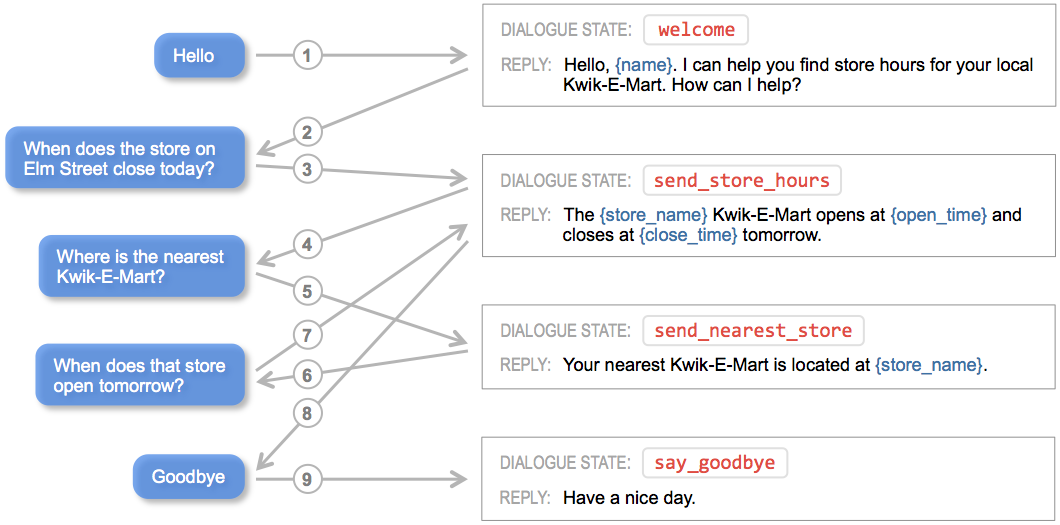
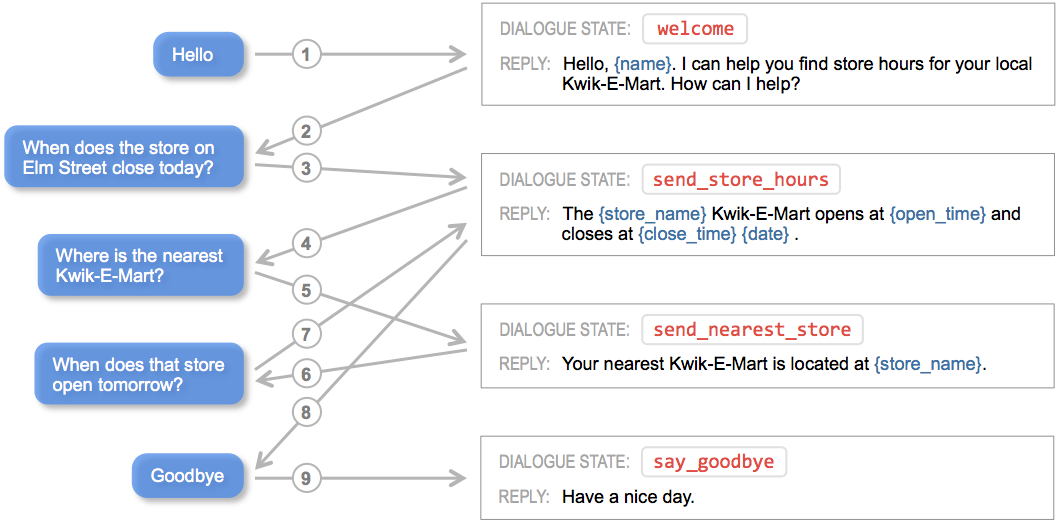
finished draft of quickstart section 1.4

diff --git a/docs/source/quickstart.rst b/docs/source/quickstart.rst
@@ -42,11 +42,12 @@ While there is no magic formula to determine which use case is ideal for a conve
 
 For this quickstart section, we will consider a simple conversational use case which can provide information about retail store locations for your neighborhood Kwik-E-Mart. For example, you could use this service to ask about store hours: 'When does the Kwik-E-Mart on Elm street close today?'. This rudimentary use case will serve as a reference example to highlight the key steps in building a useful conversational interface.
 
+.. _script-interactions:
 
 Script Your Ideal Dialogue Interactions
 ---------------------------------------
 
-Once you have identified a good use case, the next step is to script your envisioned dialogue interactions. This design exercise details the conversational interaction flows which define the user experience for your application. It is important to think through not just the most obvious user flows, but also the corner case and exception user flows which may be encountered by users during an interaction. For example, the dialogue flows should illustrate how the application responds if the user request is beyond the application scope. Also, the flows should illustrate the interactions which will enable users to get help if they are stuck or gracefully leave the interaction. The dialogue flows should detail not only the various interaction pathways a conversation may traverse, but they should also illustrate the desired language and tone envisioned for the experience.
+Once you have identified a good use case, the next step is to script your envisioned dialogue interactions. This design exercise details the conversational interaction flows which define the user experience for your application. It is important to think through not just the most obvious user flows, but also the corner case and exception user flows which may be encountered by users during an interaction. For example, the dialogue flows should illustrate how the application responds if the user request is beyond the application scope. Also, the flows should illustrate the interactions which will enable users to gracefully leave the interaction or to get help if they are stuck. The dialogue flows should detail not only the various interaction pathways a conversation may traverse, but they should also illustrate the desired language and tone envisioned for the experience.
 
 For developers familiar with graphical interface design, this step is comparable to the task of creating wireframes and pixel-perfect mockups. Like any design step, there will likely be many iterations required to work through usability issues and reach consensus on a final design. It is always wise to begin coding and implementation only after the dust has settled on the scripted dialogue interactions. Otherwise, much implementation work and effort may be wasted. 
 
@@ -60,13 +61,13 @@ For our simple use case, the following diagram illustrates the dialogue interact
 Define the Domain, Intent, Entity and Role Hierarchy
 -------------------------------------------------------
 
-Conversational applications rely on a hierarchy of machine learning classifiers in order to model and understand natural language. More broadly defined as Natural Language Processing, this family of machine learning models sits at the core all conversational assistants in widespread production use today. While there are many different ways that machine learning techniques can be enlisted to dissect and understand human language, a set of best practices has been adopted in recent years to systematize the sometimes challenging task of building accurate and useful natural language processing systems. Today, nearly all commercial conversational applications rely on a hierarchy of machine learning models illustrated below.
+Conversational applications rely on a hierarchy of machine learning classifiers in order to model and understand natural language. More broadly defined as Natural Language Processing, this family of machine learning models sits at the core all conversational assistants in widespread production use today. While there are many different ways that machine learning techniques can be enlisted to dissect and understand human language, a set of best practices has been adopted in recent years to systematize the sometimes challenging task of building accurate and useful natural language processing systems. Today, nearly all commercial conversational applications rely on the hierarchy of machine learning models illustrated below.
 
 .. image:: images/hierarchy.png
     :width: 700px
     :align: center
 
-The topmost layer in the model hierarchy is the domain classifier. The domain classifier is responsible for performing a first-pass classification to group incoming queries into set of pre-defined buckets or 'domains'. For any given domain, there may be one or more pre-defined intents. Each intent defines a specific action or answer type to invoke for a given request. The intent classifier models are responsible for deciding which intent is most likely associated with a given request. Once the request is categorized into a specific intent, the entity recognition models are employed to discern the important words and phrases in each query that must be identified in order to understand and fulfill the request. These identified words and phrases are called 'entities', and each intent may have zero or more types of entities which must be recognized. For some types of entities, a fourth and final classification step, called role classification, may be required. The role classifiers are responsible for adding differentiating labels to entities of the same type. Refer to the User Guide for a more in-depth treatment of the natural language processing classifier hierarchy utilized by MindMeld Workbench. 
+The topmost layer in the model hierarchy is the domain classifier. The domain classifier is responsible for performing a first-pass classification to assign incoming queries into set of pre-defined buckets or 'domains'. For any given domain, there may be one or more pre-defined intents. Each intent defines a specific action or answer type to invoke for a given request. The intent classifier models are responsible for deciding which intent is most likely associated with a given request. Once the request is categorized into a specific intent, the entity recognition models are employed to discern the important words and phrases in each query that must be identified in order to understand and fulfill the request. These identified words and phrases are called 'entities', and each intent may have zero or more types of entities which must be recognized. For some types of entities, a fourth and final classification step, called role classification, may be required. The role classifiers are responsible for adding differentiating labels to entities of the same type. Refer to the :ref:`User Guide <userguide>` for a more in-depth treatment of the natural language processing classifier hierarchy utilized by MindMeld Workbench. 
 
 For our simple conversational application which can help us find store information for our local Kwik-E-Mart, the natural language processing model hierarchy can be designed as illustrated below.
 
@@ -86,7 +87,7 @@ As illustrated, this rudimentary application has a single domain, 'store_info', 
 
   By convention, intent names should always be verbs which describe what the user is trying accomplish.
 
-In this basic example, only the ``get_store_hours`` intent requires entity classification. This intent supports the two defined entity types listed below.
+In this basic example, only the ``get_store_hours`` intent requires entity recognition. This intent supports the two defined entity types listed below.
 
    - ``store_name`` The name of a specific retail store location.
    - ``date`` The calendar date or day of the week.
@@ -97,9 +98,9 @@ Neither of these two entity types will require role classification in this simpl
 
   By convention, entity names should always be nouns which describe the entity type.
 
-The design of the domain, intent, entity and role hierarchy for this example application is now complete. We can now begin implementing this application using MindMeld Workbench. Every Workbench application begins with a root folder. The root folder contains all of the training data files, configuration files and custom code required in each Workbench application. For our simple example, lets first define a root directory called 'my_app'. To define the domain and intent hierarchy for your application, create a subfolder called 'domains'. Inside the 'domains' folder, create a subfolder for the name of each different domain in your application. Then, inside each domain folder, create another subfolder with the name of each individual intent in that domain. These folders are used to organize the training data for your machine learning models to understand natural language.
+The design of the domain, intent, entity and role hierarchy for this example application is now complete, and we can begin implementing this application using MindMeld Workbench. Every Workbench application begins with a root folder. The root folder contains all of the training data files, configuration files and custom code required in each Workbench application. For our simple example, lets first define a root directory called 'my_app'. To define the domain and intent hierarchy for your application, create a subfolder called 'domains'. Inside the 'domains' folder, create a subfolder for the name of each different domain in your application. Then, inside each domain folder, create another subfolder with the name of each individual intent in that domain. These folders are used to organize the training data for your machine learning models to understand natural language.
 
-Similarly, inside the root folder, create another subdirectory called 'entities'. Inside the entities folder, create a subdirectory for the name of every different entity type required in your application. These folders are used to organize the data files used by the entity recognizer, role classifier and entity resolver models. Refer to the User Guide for more details about the organization and structure of the application root directory. The User Guide also describes application 'blueprints' which provide pre-configured application directory structures for common conversational application use cases.
+Similarly, inside the root folder, create another subdirectory called 'entities'. Inside the entities folder, create a subdirectory for the name of every different entity type required in your application. These folders organize the data files used by the entity recognizer, role classifier and entity resolver models. Refer to the :ref:`User Guide <userguide>` for more details about the organization and structure of the application root directory. The :ref:`User Guide <userguide>` also describes application 'blueprints' which provide pre-configured application directory structures for common conversational application use cases.
 
 For our simple example application, the root directory structure which implements our desired natural language model hierarchy is illustrated below. 
 
@@ -107,7 +108,7 @@ For our simple example application, the root directory structure which implement
     :width: 400px
     :align: center
 
-Notice that there is no folder for the ``date`` entity. In this case, ``date`` is a 'system' entity, which is already built in to the Workbench platform. Workbench provides several different 'system' entity types for common, domain-independent entities; see the Workbench User Guide for details.  
+Notice that there is no folder for the ``date`` entity. In this case, ``date`` is a 'system' entity, which is already built in to the Workbench platform. Workbench provides several different 'system' entity types for common, domain-independent entities; see the Workbench :ref:`User Guide <userguide>` for details.  
 
 Given this defined hierarchy, we would expect our trained natural language processing models to yield the following results for the user requests in the simple interaction proposed in the preceding section.
 
@@ -121,9 +122,16 @@ The following sections of the quickstart will describe how to introduce training
 Define the Dialogue State Handlers
 -----------------------------------
 
-Today's commercial voice and chat assistants guide users through a conversational interaction in order to find information or accomplish a task. The steps in each conversational interaction are called 'dialogue states'. A dialogue state defines the form of response which is appropriate for that step in an interaction as well as other logic that must be invoked to determine the desired response. At the core of every conversational application is a set of dialogue state handlers which define the logic and response required for every supported dialogue state.
+Today's commercial voice and chat assistants guide users through a conversational interaction in order to find information or accomplish a task. The steps in each conversational interaction are called 'dialogue states'. A dialogue state defines the form of response which is appropriate for each step in an interaction as well as other logic that must be invoked to determine the desired response. Each application relies on a set of dialogue state handlers which define the logic and response required for every supported dialogue state. 
 
-For ideal conversational interactions, the flow of dialogue states can be very straightforward, as illustrated in the flow diagram below.
+At the core of every conversational application resides a dialogue manager. The dialogue manager is responsible for analyzing each incoming request and assigning it to a specific dialogue state handler to execute required logic and return a response. The task of mapping each incoming request to the appropriate dialogue state is often referred to as 'dialogue state tracking'. While applying large-scale machine learning techiniques for dialogue state tracking is an active area of research today, nearly all commercial applications rely heavily on rule-based approaches to map incoming requests to the correct dialogue state.
+
+MindMeld Workbench provides advanced and flexible capabilities for dialogue state tracking. It offers a flexible syntax for defining the rules and patterns each incoming request must match in order to be assigned to a specific dialogue state. In addition, Workbench is fully extensible and can accommodate any custom logic when MindMeld's built-in pattern matching engine will not suffice.
+
+Specify the Superset of Dialogue States
+~~~~~~~~~~~~~~~~~~~~~~~~~~~~~~~~~~~~~~~
+
+Before you can begin implementing your dialogue state handlers, it is first necessary to define the required dialogue states. For simple conversational interactions, the set of dialogue states can be very straightforward, as illustrated in the flow diagram below.
 
 .. image:: images/simple_dialogue_states.png
     :width: 700px
@@ -135,27 +143,66 @@ In practice, however, the flow of dialogue states can be quite complex. Conversa
     :width: 700px
     :align: center
 
-In this section, we will illustrate how the dialogue states and the dialogue state handlers are implemented for the scripted conversational interaction from section 1.2. First, we must define the set of dialogue states which encompass the scripted interactions. For this quickstart example, four different dialogue states will suffice: ``welcome``, ``send_store_hours``, ``send_nearest_store``, and ``say_goodbye``. The following diagram illustrates the conversation flow.
+Our goal here is to define the required dialogue states for the scripted conversational interaction in :ref:`section 1.2 <script-interactions>`. To capture the envisioned functionality, four different dialogue states will be needed: ``welcome``, ``send_store_hours``, ``send_nearest_store``, and ``say_goodbye``. The following diagram illustrates the conversation flow.
 
 .. image:: images/quickstart_dialogue_states.png
     :width: 700px
     :align: center
 
-As shown, each dialogue state prescribes the form of the system response. For most commercial applications today, the form of response consists of natural language templates to reply to the user or prompt for additional information. These templates are populated on-the-fly using contextual state information gleaned from the conversation.  Often, the response also includes additional information to render client-side interactive elements such as content carousels or quick reply buttons.
+As shown, each dialogue state prescribes the form of the system response. For most commercial applications today, the form of response consists of natural language templates to reply to the user or prompt for additional information. These templates are populated on-the-fly using contextual state information gleaned from the conversation.  Often, the response also includes additional information to render client-side interactive elements such as image carousels or quick reply buttons.
 
 .. note::
 
-  By convention, the dialogue state names should be a verb which describes the action your application should take at that point in the interaction.
+  By convention, the dialogue state names should be verbs which describe the action your application should take at each point in the interaction.
 
-In MindMeld Workbench, the dialogue states and their associated handler logic is defined by a file containing Python code located in the root directory of your application. This file defines a set of patterns, which when matched, should return a specified response. To begin, create a Python file called 'my_app.py' in the root directory of your application. If you begin your implementation using a Workbench 'blueprint' app, this file should already exist in the root directory.
 
-File my_app.py
+Create the Application Container
+~~~~~~~~~~~~~~~~~~~~~~~~~~~~~~~~
+
+In MindMeld Workbench, the application container is a Python file which contains all of the logic and functionality for your application. This Python file is located in your project's root directory, and it enumerates all of the dialogue states and their associated handlers. To begin, create a file called 'my_app.py' with the following minimal implementation in your root directory. 
 
 .. code:: python
 
   from mmworkbench import Application
-  from mmworkbench import context, slots
-  import mmworkbench.KnowledgeBase as kb
+  
+  app = Application(__name__)
+  
+  @app.handle(intent='greet')
+  def welcome():
+      response = {
+          'replies': [
+              'Hello. I can help you find store hours ' +
+              'for your local Kwik-E-Mart. How can I help?'
+          ]
+      }
+      return response
+
+Your directory structure should now resemble the following.
+
+.. image:: images/directory2.png
+    :width: 350px
+    :align: center
+
+The minimal code snippet shown above illustrates the conventions employed by Workbench to implement dialogue state tracking and dialogue state handling logic. It performs the following steps:
+
+   1. It imports the Application class from the MindMeld Workbench package.
+   2. It defines an Application instance to serve as the parent container for the application.
+   3. It uses the :keyword:`handle()` decorator to define a pattern which, when matched, will invoke the associated handler function.
+   4. It specifies the handler function :keyword:`welcome()` which defines the ``welcome`` dialogue state and returns the desired response.
+
+This application structure provides a straighforward mechanism to enumerate a variety of patterns along with their associated handlers which will comprise the core interaction logic for your application. 
+
+
+Implement the Dialogue State Handlers
+~~~~~~~~~~~~~~~~~~~~~~~~~~~~~~~~~~~~~
+
+Let us now define the dialogue handlers we would need for the interaction in :ref:`section 1.2 <script-interactions>`. In the process, we will introduce several new capabilities of Workbench which are described in depth in the :ref:`User Guide <userguide>`.
+
+To start, let's consider the handler for the ``welcome`` dialogue state.
+
+.. code:: python
+
+  from mmworkbench import Application, context, slots
   
   app = Application(__name__)
   
@@ -169,31 +216,45 @@ File my_app.py
           ]
       }
       return response
+
+As mentioned above, the name of the dialogue state is prescribed by the method name of the dialogue state handler. The :keyword:`handle()` decorator specifies the pattern which must be matched to invoke the handler method. In this case, the pattern is specified simply as :keyword:`intent='greet'`. In other words, if the natural language processer predicts that the intent of the incoming request is 'greet', the :keyword:`welcome()` handler will be invoked.
+
+Every dialogue handler returns a :keyword:`response` object. This object specifies the natural language text as well as other data to be returned in the response. Note that the text strings contained in this response can utilize templated expressions, such as :keyword:`'Hello, {name}.'`. These templates rely on standard Python string formatting syntax. Templated expressions will be populated with real values before returning to the client. The :keyword:`slots` object is used to store the named string values which are used to populate the templates.
+
+In the code snippet above, we also introduce the :keyword:`context` object. Workbench relies on the :keyword:`context` object to keep track of all of the state information associated with the current conversational interaction. In can contain output data from the natural language parsing models, aggregated state from multiple previous interactions, as well as user and session information. The detailed information in the :keyword:`context` can be very useful for implementing custom dialogue state handling logic. More details can be found in the :ref:`User Guide <userguide>`.
+
+Following this same approach, we can now also define handlers for the dialgue states ``send_store_hours``, ``send_nearest_store``, and ``say_goodbye``. The resulting my_app.py file now looks like this.
+
+.. code:: python
+
+  from mmworkbench import Application, QuestionAnswerer, context, slots
   
-  @app.handle(intent='get_store_close_time')
-  def send_close_time():
-      set_target_store(context)
-      if context.frame.target_store:
-          slots['time'] = context.frame.target_store['close_time']
-          slots['store_name'] = context.frame.target_store['name']
-          response = {
-              'replies': [
-                  'The {store_name} Kwik-E-Mart closes at {time}.'
-              ]
-          }
-      else:
-          response = {'replies': ['For which store?']}
+  qa = QuestionAnswerer('data/stores.json')
+  app = Application(__name__, qa)
+  
+  @app.handle(intent='greet')
+  def welcome():
+      slots['name'] = context.request.session.user_name
+      response = {
+          'replies': [
+              'Hello, {name}. I can help you find store hours ' +
+              'for your local Kwik-E-Mart. How can I help?'
+          ]
+      }
       return response
   
-  @app.handle(intent='get_store_open_time')
-  def send_open_time():
+  @app.handle(intent='get_store_hours')
+  def send_store_hours():
       set_target_store(context)
       if context.frame.target_store:
-          slots['time'] = context.frame.target_store['open_time']
+          slots['open_time'] = context.frame.target_store['open_time']
+          slots['close_time'] = context.frame.target_store['close_time']
           slots['store_name'] = context.frame.target_store['name']
+          dates = [e.value for e in context.entities if e.type == 'date']
+          if dates: slots['date'] = dates[0]
           response = {
               'replies': [
-                  'The {store_name} Kwik-E-Mart opens at {time}.'
+                  'The {store_name} Kwik-E-Mart opens at {open_time} and closes at {close_time} {date}.'
               ]
           }
       else:
@@ -203,11 +264,11 @@ File my_app.py
   @app.handle(intent='get_nearest_store')
   def send_nearest_store():
       loc = context.request.session.location 
-      stores = kb.get('store', sort='proximity', current_location=loc)
+      stores = qa.get(index='stores', sort='proximity', current_location=loc)
       slots['store_name'] = stores[0]['name']
       response = {
           'replies': [
-              'your nearest Kwik-E-Mart is located at {store_name}.'
+              'Your nearest Kwik-E-Mart is located at {store_name}.'
           ]
       }
       return response
@@ -215,14 +276,22 @@ File my_app.py
   @app.handle(intent='exit')
   def say_goodbye():
       return {'replies': ['Bye', 'Goodbye', 'Have a nice day.']}
+
+  @app.handle()
+  def default():
+      return {
+          'replies': [
+              'I did not understand. Please you rephrase your request.'
+          ]
+      }
   
   def set_target_store(context):
-      stores = [e.value for e in context.entities if e.type == 'name']
-      if names: context.frame.target_store = stores[0]
+      stores = [e.value for e in context.entities if e.type == 'store_name']
+      if stores: context.frame.target_store = stores[0]
   
-  if __name__ == "__main__":
-      app.run()
+This code snippet introduces the QuestionAnswerer class. The QuestionAnswerer is the Workbench module responsible for creating and searching across a knowledge base of information relevant to your application. In this example, the ``send_nearest_store`` relies on the QuestionAnswerer component to retrieve the closest retail store location from the knowledge base. The QuestionAnswerer and its associated knowledge base will be discussed in more detail below.
 
+This simple example also illustrates the use of a default handler. The :keyword:`@app.handle()` decorator serves as a 'catchall' pattern which will return a default response if no other specified patterns match.
 
 
 Create the Knowledge Base

diff --git a/docs/source/approaches_for_building_conversational_applications.rst b/docs/source/approaches_for_building_conversational_applications.rst
@@ -29,15 +29,15 @@ Conversational AI Platforms
 ---------------------------
 With the rise of converational applications in the past few years, a new technology approach has emerged to assist companies and developers create production-quality conversational experiences. Today called Conversational AI Platforms, these solutions are machine learning platforms which have been optimized for the task of creating conversational applications such as voice or chat assistants. The platforms offer companies the flexibility and advanced capabilities of traditional machine learning toolkits but are specifically adapted to streamline the task of building  production conversational interfaces. `MindMeld Workbench <https://www.mindmeld.com/>`_ is an example of one of the most widely used Conversational AI platforms available today.
 
-Conversational AI platforms differ from pure machine learning platforms in that they offer tools specifically designed for the machine learning steps in a typical conversational workflow. For example, tools for intent classification, entity recognition, entity resolution, question answering, dialogue management are common components in Conversational AI platforms. Conversational AI platforms differ from cloud-based NLP services in that they are intended to be used by machine learning engineers with some familiarity of data science best practices. As a result, Conversational AI platforms offer more advanced tools and more flexibility to train and analyze custom language understanding models around large sets of training data. Unlike cloud-based NLP services, Conversational AI platforms do not require that training data be uploaded to a shared clould infrastructure. Instead, they provide a flexible and versatile platform which ensures that data sets and trained models are locally managed and always remain the intellectual property of the application developer.
+Conversational AI platforms differ from pure machine learning platforms in that they offer tools specifically designed for the machine learning steps in a typical conversational workflow. For example, tools for intent classification, entity recognition, entity resolution, question answering, and dialogue management are common components in Conversational AI platforms. Conversational AI platforms differ from cloud-based NLP services in that they are intended to be used by machine learning engineers with some familiarity of data science best practices. As a result, Conversational AI platforms offer more advanced tools and more flexibility to train and analyze custom language understanding models around large sets of training data. Unlike cloud-based NLP services, Conversational AI platforms do not require that training data be uploaded to a shared cloud infrastructure. Instead, they provide a flexible and versatile platform which ensures that data sets and trained models are locally managed and always remain the intellectual property of the application developer.
 
 How Good is Good Enough?
 ------------------------
-With so many different approaches for building conversational applications, it is often difficult for companies to know which strategy is best. The best strategy should be the one that achieves the minimum threshold of performance which ensures a positive user experience. For conversational applications, determining this minimum level of acceptability can often be a confusing or daunting undertaking.
+With so many different approaches for building conversational applications, it is often difficult for companies to know which strategy is best. The best strategy should be the one that achieves the required threshold of performance to ensure a positive user experience. For conversational applications, determining this baseline level of acceptability can often be a confusing or daunting undertaking.
 
 Conversational interfaces represent a new user interface paradigm that is unfamiliar and nonintuitive for many developers who have experience building web or native applications. Unlike traditional graphical user interfaces (GUIs), conversational interfaces can be much more unforgiving. In a traditional GUI, the visual elements on the display provide a very useful mechanism to guide a user down an interaction path that will lead to a positive experience. For conversational interfaces, no such visual guide exists. Instead, the user is typically presented with a microphone button or a text prompt, and they are expected to figure out how to verbalize their desired request from scratch. When faced with such an open-ended prompt and little context, many users find themselves at a loss for words. Even worse, they might pose a question that the system is not designed to handle, leading to a fruitless and frustrating outcome.
 
-Developers who are building a conversational interface for the first time often attempt to follow the same practices utilized for traditional GUIs. Namely, a developer builds a minimum viable product, or MVP, which captures a small subset of the envisioned functionality, and then submits the MVP for user testing. For conversational interfaces, this approach almost inevitably fails. An minimal implementation of a conversational interface typically means that it will be built using a small subset of the training data that will eventually be needed in a production application. For example, consider an MVP built using 10% of the training data eventually required. This application will only be able to understand around ten percent of the typical language variations verbalized by users when they invoke your app. As a result, when you submit your app for user testing, nine out of ten users will fail on their first request. This abysmal performance might quickly toll the death knell for your project.
+Developers who are building a conversational interface for the first time often attempt to follow the same practices utilized for traditional GUIs. Namely, a developer builds a minimum viable product, or MVP, which captures a small subset of the envisioned functionality, and then submits the MVP for user testing. For conversational interfaces, this approach almost inevitably fails. A minimal implementation of a conversational interface typically means that it will be built using a small subset of the training data that will eventually be needed in a production application. For example, consider an MVP built using ten percent of the training data eventually required. This application will only be able to understand around ten percent of the typical language variations verbalized by users when they invoke your app. As a result, when you submit your app for user testing, nine out of ten users will fail on their first request. This abysmal performance might quickly toll the death knell for your project.
 
 As it turns out, quick-and-dirty prototypes and limited-scale user testing are not particularly useful in assessing the utility of conversational applications. The only way that performance can be measured accurately is by enlisting large-scale analytics to deterministically measure performance across the long tail of possible user interactions. Popular commercial virtual assistants like Siri, Cortana, Google Assistant and Alexa all rely on this same measurment methodology to ensure that their services meet a mimimum threshold of acceptability before they launch any new features publicly. This measurement methodology first relies on having a large enough set of 'ground truth' data to be sure that it reflects the lion's share of all possible user interaction patterns. Next this 'ground truth' data is used, via automated testing, to ensure that a large enough percentage of user queries return an acceptable response.
 

diff --git a/docs/source/introducing_mindmeld_workbench.rst b/docs/source/introducing_mindmeld_workbench.rst
@@ -3,7 +3,7 @@ Introducing MindMeld Workbench
 
 Large-scale supervised learning, when applied effectively, can be used to build very useful and versatile conversational applications. Unfortunately, the vast majority of attempts fail. Over the past few years, most companies that have attempted to build conversational applications have been unsuccessful in creating reliable or useful experiences. This woeful track record can no doubt be traced to the dearth of tools and best practices available to guide companies down the path toward success. This guide and the MindMeld platform were created to enable every company with the tools and techniques required to build highly useful and versatile conversational applications. The MindMeld platform is one of the most advanced AI platforms available today for building and deploying production-quality conversational experiences. This guide provides detailed instructions, best practices and reference applications which will enable any organization to create some of the most advanced conversational experiences possible today. 
 
-MindMeld Workbench is the core machine learning toolkit which powers the MindMeld platform. It is a Python-based framework which encompasses all of the algorithms and utilities required to build modern, production-quality conversational applications. It has evolved over several years during the process of building and deploying dozens of the most advanced conversation experiences achievable today. It has been optimized for the needs of companies that want to build an advanced conversational assistant which demonstrates deep understanding of a particular use case or domain. MindMeld Workbench is a commercial software product which requires a license to use. To inquire about obtaining a license for MindMeld Workbench, please `contact MindMeld sales <mailto:info@mindmeld.com>`_.
+MindMeld Workbench is the core machine learning toolkit which powers the MindMeld platform. It is a Python-based framework which encompasses all of the algorithms and utilities required to build modern, production-quality conversational applications. It has evolved over several years during the process of building and deploying dozens of the most advanced conversational experiences achievable today. It has been optimized for the needs of companies that want to build an advanced conversational assistant which demonstrates deep understanding of a particular use case or domain. MindMeld Workbench is a commercial software product which requires a license to use. To inquire about obtaining a license for MindMeld Workbench, please `contact MindMeld sales <mailto:info@mindmeld.com>`_.
 
 MindMeld Workbench is the only Conversational AI platform available today which provides capabilities to handle every step in the workflow for a state-of-the-art conversational application. The architecture of MindMeld Workbench is illustrated below.
 
